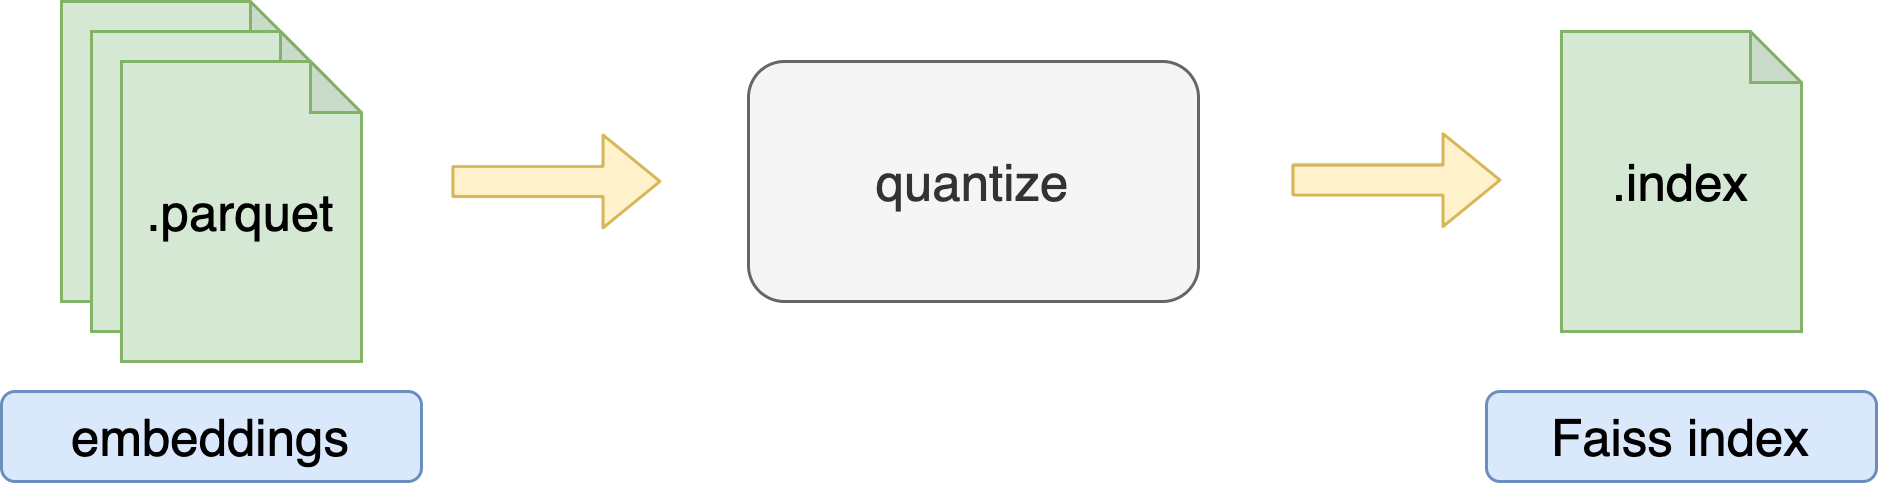
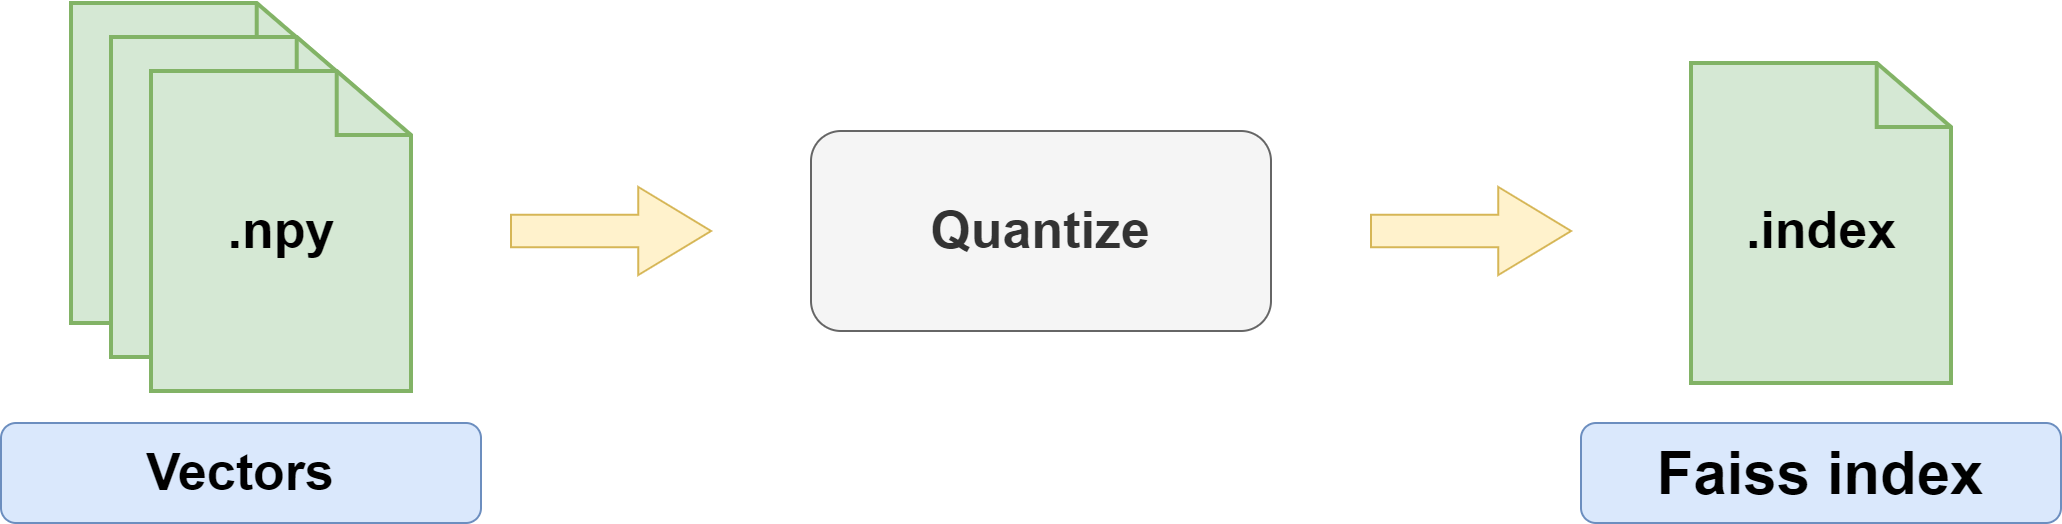
Improve docs (#4)
* improve quantization.rst

* change doc image

* improve doc

diff --git a/docs/getting_started/quantization.rst b/docs/getting_started/quantization.rst
@@ -12,19 +12,70 @@ recall scores given a memory and query speed constraint.
 The quantize command
 --------------------
 
-There is a magic command that creates your Faiss index.
+The ``autofaiss quantize`` command takes the following parameters:
 
-The main important parameters are:
++----------------------------+----------+----------------------------+
+| Flag available             | Default  | Description                |
++============================+==========+============================+
+| --embeddings_path          | required | Source path of the         |
+|                            |          | directory containing your  |
+|                            |          | .npy embedding files. If   |
+|                            |          | there are several files,   |
+|                            |          | they are read in the       |
+|                            |          | lexicographical order.     |
++----------------------------+----------+----------------------------+
+| --output_path              | required | Destination path of the    |
+|                            |          | faiss index on local       |
+|                            |          | machine.                   |
++----------------------------+----------+----------------------------+
+| --metric_type              | "ip"     | (Optional) Similarity      |
+|                            |          | function used for query:   |
+|                            |          | ("ip" for inner product,   |
+|                            |          | "l2" for euclidian         |
+|                            |          | distance)                  |
++----------------------------+----------+----------------------------+
+| --max_index_memory_usage   | "32GB"   | (Optional) Maximum size in |
+|                            |          | GB of the created index,   |
+|                            |          | this bound is strict.      |
++----------------------------+----------+----------------------------+
+| --current_memory_available | "32GB"   | (Optional) Memory          |
+|                            |          | available (in GB) on the   |
+|                            |          | machine creating the       |
+|                            |          | index, having more memory  |
+|                            |          | is a boost because it      |
+|                            |          | reduces the swipe between  |
+|                            |          | RAM and disk.              |
++----------------------------+----------+----------------------------+
+| --max_index_query_time_ms  | 10       | (Optional) Bound on the    |
+|                            |          | query time for KNN search, |
+|                            |          | this bound is              |
+|                            |          | approximative.             |
++----------------------------+----------+----------------------------+
+| --index_key                | None     | (Optional) If present, the |
+|                            |          | Faiss index will be build  |
+|                            |          | using this description     |
+|                            |          | string in the              |
+|                            |          | index_factory, more detail |
+|                            |          | in the `Faiss              |
+|                            |          | documentation`_            |
++----------------------------+----------+----------------------------+
+| --index_param              | None     | (Optional) If present, the |
+|                            |          | Faiss index will be set    |
+|                            |          | using this description     |
+|                            |          | string of hyperparameters, |
+|                            |          | more detail in the `Faiss  |
+|                            |          | docume                     |
+|                            |          | ntation <https://github.co |
+|                            |          | m/facebookresearch/faiss/w |
+|                            |          | iki/Index-IO,-cloning-and- |
+|                            |          | hyper-parameter-tuning>`__ |
++----------------------------+----------+----------------------------+
+| --use_gpu                  | False    | (Optional) Experimental,   |
+|                            |          | gpu training can be        |
+|                            |          | faster, but this feature   |
++----------------------------+----------+----------------------------+
 
-* *embeddings_path* :         Path on hdfs where to find your embeddings  
-* *local_embeddings_path* :   Path on local disk on which keep a copy of you embeddings  
-* *output_path* :             Path on hdfs where you want to save your index  
-* *metric_type* :             Similarity distance on your vectors (inner product or euclidian distance)  
-* *max_index_query_time_ms* : the maximum query speed you want  
-* *max_index_memory_usage* :  the maximum RAM usage of you index  
-
-You can also use the notebook `build_index.ipynb` to do this only with python code (section "Getting started with the python library" of this documentation).
- 
+.. _Faiss documentation: https://github.com/facebookresearch/faiss/wiki/The-index-factory
 
 It is possible to force the creation of a specific index with specific hyperparameters if more control is needed.
 Here is some documentation <https://github.com/facebookresearch/faiss/wiki/Guidelines-to-choose-an-index> and
@@ -51,7 +102,30 @@ This command creates a new index with different hyperparameters to be closer to 
 The tuning command
 ------------------
 
-You just need to put the path of your index, the index_key describing the index and a maximum query-time value in milliseconds/query.
+The tuning command set the hyperparameters for the given index.
+
+If an index_param is given, set this hyperparameters to the index,
+otherwise perform a greedy heusistic to make the best out or the max_index_query_time_ms constraint
+
+Parameters
+----------
+index_path : str
+    Path to .index file on local disk if is_local_index_path is True,
+    otherwise path on hdfs.
+index_key: str
+    String to give to the index factory in order to create the index.
+index_param: Optional(str)
+    Optional string with hyperparameters to set to the index.
+    If None, the hyper-parameters are chosen based on an heuristic.
+dest_path: Optional[str]
+    Path to the newly created .index file. On local disk if is_local_index_path is True,
+    otherwise on hdfs. If None id given, index_path is the destination path.
+is_local_index_path: bool
+    True if the dest_path and index_path are local path, False if there are hdfs paths.
+max_index_query_time_ms: float
+    Query speed constraint for the index to create.
+use_gpu: bool
+    Experimental, gpu training is faster, not tested so far.
 
 Time required
 -------------
@@ -87,6 +161,21 @@ The score command
 
 You just need the path to your index and the embeddings for this one.
 Be careful, computing accurate metrics is slow.
+
+Compute metrics on a given index, use cached ground truth for fast scoring the next times.
+
+Parameters
+----------
+index_path : str
+    Path to .index file on local disk if is_local_index_path is True,
+    otherwise path on hdfs.
+embeddings_path: str
+    Local path containing all preprocessed vectors and cached files.
+is_local_index_path: bool
+    True if the dest_path and index_path are local path, False if there are hdfs paths.
+current_memory_available: str
+    Memory available on the current machine, having more memory is a boost
+    because it reduces the swipe between RAM and disk.
 
 
 Time required

diff --git a/README.md b/README.md
@@ -58,6 +58,10 @@ distances, indices = my_index.search(query_vector, k)
 print(list(zip(distances[0], indices[0])))
 ```
 
+## Using from python
+
+If you want to use autofaiss directly from python, check the [API documentation](https://criteo.github.io/autofaiss/)
+
 ## How are indices selected ?
 
 To understand better why indices are selected and what are their characteristics, check the [index selection demo](https://colab.research.google.com/github/criteo/autofaiss/blob/master/docs/notebooks/autofaiss_index_selection_demo.ipynb)

diff --git a/docs/index.rst b/docs/index.rst
@@ -20,6 +20,13 @@ Creating and tuning quantized KNN indices for efficient similarity search with l
    getting_started/quantization
 
 .. toctree::
+   :maxdepth: 2
+   :caption: Use autofaiss from python
+
+   API/api
+   _source/modules
+
+.. toctree::
    :glob:
    :maxdepth: 2
    :caption: Getting started with notebooks

diff --git a/docs/API/api.rst b/docs/API/api.rst
@@ -1,0 +1,16 @@
+Python documentation
+========
+
+Quantize
+--------
+
+Quantizer module contains the exported functions
+
+.. currentmodule:: autofaiss.external.quantize
+
+.. autosummary::
+   :toctree: _autosummary
+
+   Quantizer.quantize
+   Quantizer.score_index
+   Quantizer.tuning
